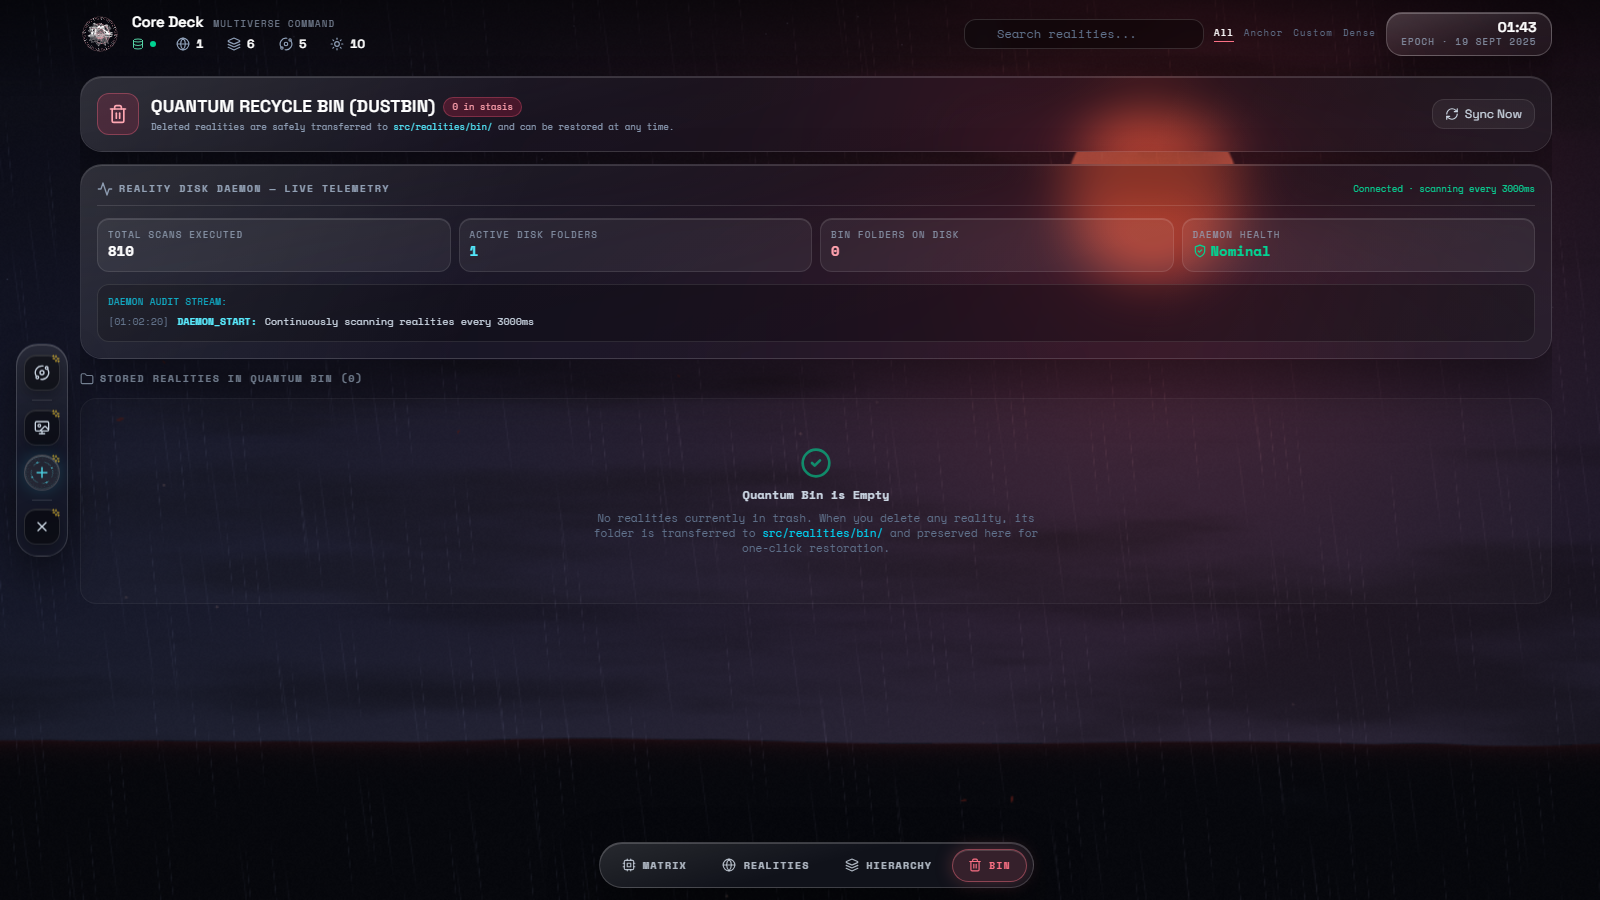
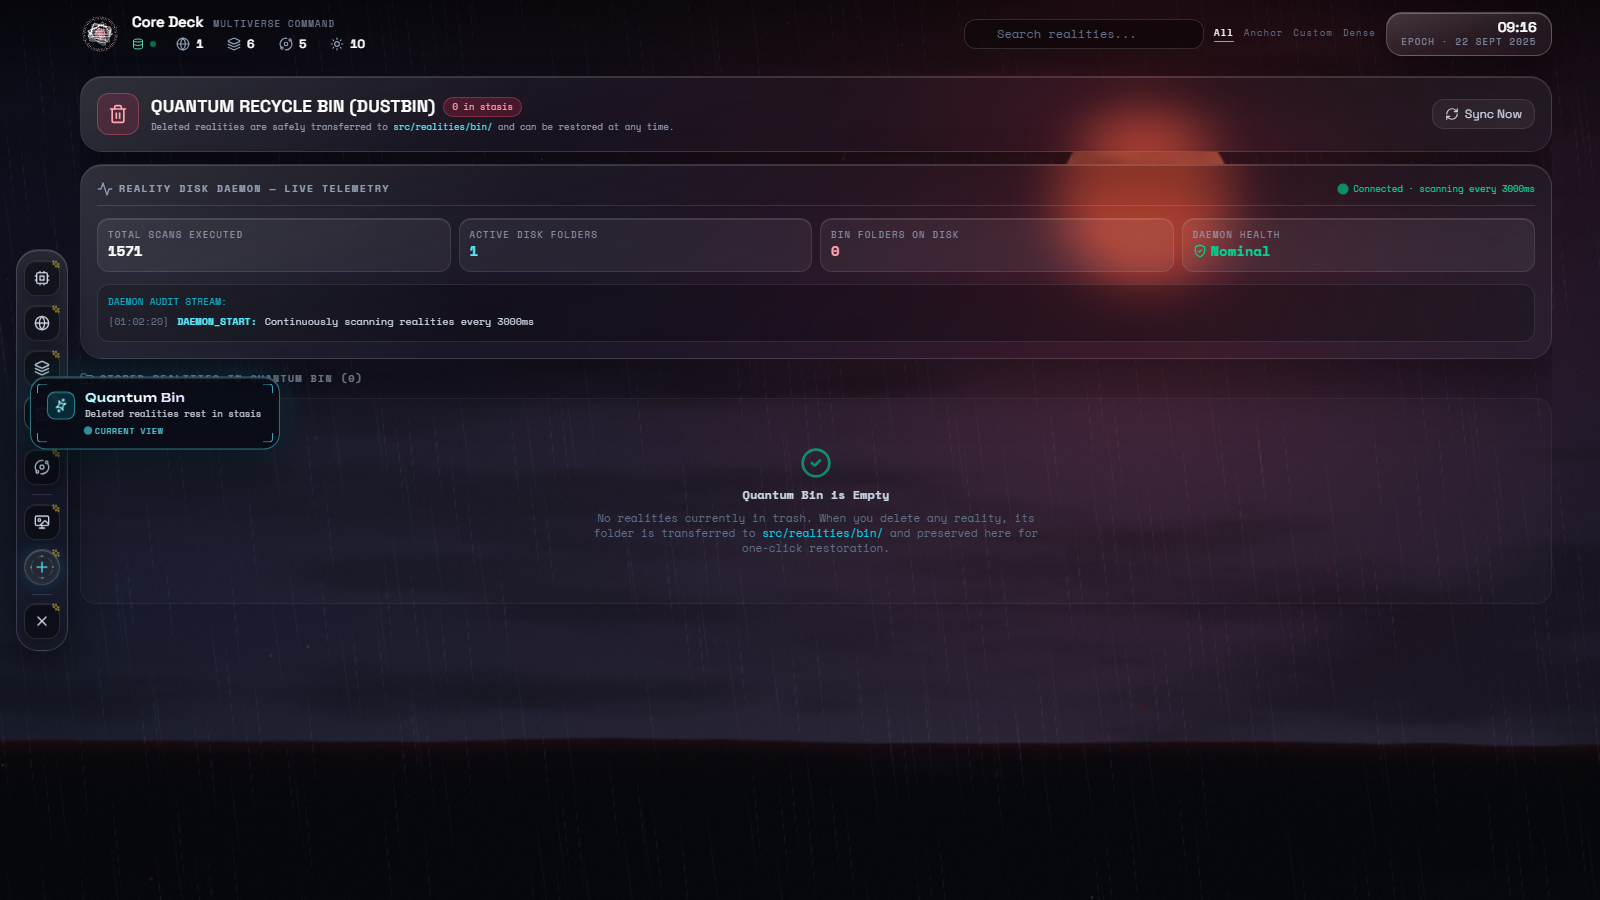
R101.1: THE RAIL ABSORBS THE DOCK — the author's follow-on: the four view tabs leave the bottom pill bar and join the tool seals on the left rail, one unified frost column (view seals on top — symbols only, names in the thought clouds, the active seal burning in the tab accent, the Bin badge riding 

diff --git a/src/ui/console/CoreConsole.tsx b/src/ui/console/CoreConsole.tsx
@@ -39,13 +39,14 @@ interface Props {
 
 type Tab = 'dashboard' | 'realities' | 'hierarchy' | 'bin';
 
-/* THE VIEW DOCK — the bottom pill bar's registry. Full names for the cloud
-   chips, short names for the pill faces. */
-const TABS: Array<{ id: Tab; label: string; pill: string; sub: string; icon: React.ReactNode }> = [
-  { id: 'dashboard', label: 'Command Matrix', pill: 'Matrix', sub: 'Live multiverse telemetry & controls', icon: <Cpu className="w-3.5 h-3.5" /> },
-  { id: 'realities', label: 'Realities Grid', pill: 'Realities', sub: 'One card per parallel reality', icon: <Globe className="w-3.5 h-3.5" /> },
-  { id: 'hierarchy', label: 'Deep Hierarchy', pill: 'Hierarchy', sub: 'The 11-stage cosmological ladder', icon: <Layers className="w-3.5 h-3.5" /> },
-  { id: 'bin', label: 'Quantum Bin', pill: 'Bin', sub: 'Deleted realities rest in stasis', icon: <Trash2 className="w-3.5 h-3.5" /> },
+/* THE RAIL'S VIEW SEALS — the four console views living on the rail with
+   the tools (R101.1): symbols only, full names rise in the thought cloud,
+   the active seal burns in the tab accent, the Bin wears its live badge. */
+const TABS: Array<{ id: Tab; label: string; sub: string; icon: React.ReactNode }> = [
+  { id: 'dashboard', label: 'Command Matrix', sub: 'Live multiverse telemetry & controls', icon: <Cpu className="w-4 h-4" /> },
+  { id: 'realities', label: 'Realities Grid', sub: 'One card per parallel reality', icon: <Globe className="w-4 h-4" /> },
+  { id: 'hierarchy', label: 'Deep Hierarchy', sub: 'The 11-stage cosmological ladder', icon: <Layers className="w-4 h-4" /> },
+  { id: 'bin', label: 'Quantum Bin', sub: 'Deleted realities rest in stasis', icon: <Trash2 className="w-4 h-4" /> },
 ];
 
 /* Quantum Glass motion system — staggered deck entrance + tab transitions.
@@ -1010,6 +1011,32 @@ export const CoreConsole: React.FC<Props> = ({
         className="cc-rail absolute left-4 top-1/2 z-40 -translate-y-1/2"
         onClick={(e) => e.stopPropagation()}
       >
+        {/* THE VIEW SEALS — the four console views, top of the rail (R101.1):
+            the active seal burns in the tab accent, the Bin wears its badge */}
+        {TABS.map((t) => {
+          const binCount = t.id === 'bin' ? (state.binRealities || []).length : 0;
+          return (
+            <span key={t.id} className="relative inline-flex">
+              <ThinkingCloudTooltip
+                onClick={() => setTab(t.id)}
+                icon={t.icon}
+                active={tab === t.id}
+                label={t.label}
+                subtitle={t.sub}
+                hint={tab === t.id ? 'Current view' : 'Switch view'}
+                position="right"
+                size="sm"
+                id={`cc-tab-${t.id}`}
+              />
+              {binCount > 0 && (
+                <span className="absolute -top-1 -right-1 z-10 w-4 h-4 rounded-full bg-rose-500 text-white font-mono text-[9px] font-bold flex items-center justify-center pointer-events-none shadow-[0_0_10px_rgba(251,113,133,0.6)]">
+                  {binCount}
+                </span>
+              )}
+            </span>
+          );
+        })}
+        <span className="cc-rail-sep" aria-hidden="true" />
         {/* TWIN JUMP — always visible even when the twin card rests
             below the fold: one click lands on the Native Simulator Twin */}
         <ThinkingCloudTooltip
@@ -1102,7 +1129,7 @@ export const CoreConsole: React.FC<Props> = ({
 
       {/* THE FLOATING DECK — a slim bar and cards resting directly on the night */}
       <div
-        className="relative h-full flex flex-col pl-20 pr-4 sm:pr-8 lg:pr-12 pt-3 pb-3"
+        className="relative h-full flex flex-col pl-20 pr-4 sm:pr-8 lg:pr-12 pt-3 pb-4"
         onClick={(e) => e.stopPropagation()}
       >
 
@@ -1511,36 +1538,6 @@ export const CoreConsole: React.FC<Props> = ({
           )}
           </AnimatePresence>
         </div>
-
-        {/* THE PILL BAR — the view dock floating at the bottom of the deck
-            (the screenshot's Living-Room dock). The active pill reads the
-            tab accent through [data-active]; the Bin wears its live badge. */}
-        <nav className="shrink-0 self-center pt-3" aria-label="Console views">
-          <div className="cc-pillbar">
-            {TABS.map((t) => {
-              const binCount = t.id === 'bin' ? (state.binRealities || []).length : 0;
-              return (
-                <button
-                  key={t.id}
-                  id={`cc-tab-${t.id}`}
-                  data-active={tab === t.id}
-                  onClick={() => setTab(t.id)}
-                  title={t.sub}
-                  aria-label={t.label}
-                  className="cc-pill"
-                >
-                  {t.icon}
-                  <span className="hidden sm:inline">{t.pill}</span>
-                  {binCount > 0 && (
-                    <span className="absolute -top-1 -right-1 z-10 w-4 h-4 rounded-full bg-rose-500 text-white font-mono text-[9px] font-bold flex items-center justify-center pointer-events-none shadow-[0_0_10px_rgba(251,113,133,0.6)]">
-                      {binCount}
-                    </span>
-                  )}
-                </button>
-              );
-            })}
-          </div>
-        </nav>
       </div>
 
       <CreateRealityModal

diff --git a/src/index.css b/src/index.css
@@ -1556,57 +1556,8 @@ input[type='range'].pw-range::-webkit-slider-thumb {
 
 /* ---- R101 frost layout primitives (all float directly on the night → blur) */
 
-/* THE PILL BAR — the screenshot's bottom dock: one floating glass pill
-   holding the console's view tabs. Active pill reads the tab accent. */
-.cc-pillbar {
-  display: inline-flex;
-  align-items: center;
-  gap: 0.2rem;
-  padding: 0.35rem;
-  border-radius: 9999px;
-  background:
-    linear-gradient(165deg, rgba(255, 255, 255, 0.13), rgba(255, 255, 255, 0.04) 50%),
-    rgba(8, 10, 18, 0.42);
-  -webkit-backdrop-filter: blur(28px) saturate(1.4);
-  backdrop-filter: blur(28px) saturate(1.4);
-  border: 1px solid rgba(255, 255, 255, 0.18);
-  box-shadow: 0 22px 48px rgba(0, 0, 0, 0.5), inset 0 1px 0 rgba(255, 255, 255, 0.18);
-  animation: ccPillIn 0.4s cubic-bezier(0.22, 1, 0.36, 1) both;
-}
-@keyframes ccPillIn {
-  from { opacity: 0; transform: translateY(14px) scale(0.96); }
-  to { opacity: 1; transform: translateY(0) scale(1); }
-}
-.cc-pill {
-  position: relative;
-  display: inline-flex;
-  align-items: center;
-  gap: 0.45rem;
-  padding: 0.5rem 0.95rem;
-  border-radius: 9999px;
-  font-family: var(--font-mono);
-  font-size: 10px;
-  font-weight: 700;
-  letter-spacing: 0.12em;
-  text-transform: uppercase;
-  white-space: nowrap;
-  color: rgba(203, 213, 225, 0.85);
-  border: 1px solid transparent;
-  cursor: pointer;
-  transition: color 0.25s ease, background 0.25s ease, border-color 0.25s ease, box-shadow 0.25s ease;
-}
-.cc-pill:hover {
-  color: #fff;
-  background: rgba(255, 255, 255, 0.08);
-}
-.cc-pill[data-active='true'] {
-  color: rgb(var(--cc));
-  background: rgb(var(--cc) / 0.16);
-  border-color: rgb(var(--cc) / 0.45);
-  box-shadow: 0 0 18px rgb(var(--cc) / 0.25), inset 0 1px 0 rgba(255, 255, 255, 0.15);
-}
-
-/* THE RAIL — the screenshot's left icon column: the deck's tools as a slim
+/* THE RAIL — the deck's ONE column on the left (R101.1: the view seals
+   joined the tool seals here; the R101 bottom dock is gone): a slim
    vertical frost sliver with hairline separators. */
 .cc-rail {
   display: flex;
@@ -1622,7 +1573,13 @@ input[type='range'].pw-range::-webkit-slider-thumb {
   backdrop-filter: blur(26px) saturate(1.35);
   border: 1px solid rgba(255, 255, 255, 0.16);
   box-shadow: 0 20px 44px rgba(0, 0, 0, 0.46), inset 0 1px 0 rgba(255, 255, 255, 0.16);
-  animation: ccPillIn 0.4s cubic-bezier(0.22, 1, 0.36, 1) both;
+  animation: ccRailIn 0.4s cubic-bezier(0.22, 1, 0.36, 1) both;
+}
+@keyframes ccRailIn {
+  /* X-slide only — the rail's vertical centering lives in Tailwind's
+     `translate` property (-translate-y-1/2), which composes with transform */
+  from { opacity: 0; transform: translateX(-14px); }
+  to { opacity: 1; transform: translateX(0); }
 }
 .cc-rail-sep {
   width: 20px;
@@ -1666,10 +1623,9 @@ input[type='range'].pw-range::-webkit-slider-thumb {
   }
   .tilt-btn { transform: none !important; }
   .cc-cloud-rise, .cc-thought-dot { animation: none; }
-  .cc-pillbar, .cc-rail { animation: none; }
+  .cc-rail { animation: none; }
   .cc-vital,
-  .cc-btn-glass,
-  .cc-pill {
+  .cc-btn-glass {
     transition: none;
   }
 }

diff --git a/scripts/probes/round101-frost-visual.ts b/scripts/probes/round101-frost-visual.ts
@@ -60,10 +60,29 @@ async function main() {
     await page.waitForSelector('.cc-root', { timeout: 30_000 });
     await page.waitForTimeout(2_500); /* deck entrance + stagger settle */
 
-    /* every pill-bar view */
+    /* every rail view — wait for THE VIEW'S OWN content to be mounted AND
+       fully entered (opacity 1) before capturing. innerHTML length alone
+       lies: the exiting view's content satisfies it mid-swap. Each view
+       carries a marker string only it renders. */
+    const MARKERS: Record<string, string> = {
+      dashboard: 'Multiverse Radar Scan',
+      realities: 'All Parallel Realities',
+      hierarchy: 'Reality Branches',
+      bin: 'QUANTUM RECYCLE BIN',
+    };
     for (const tab of ['dashboard', 'realities', 'hierarchy', 'bin']) {
       await page.click(`#cc-tab-${tab}`);
-      await page.waitForTimeout(1_400);
+      await page.waitForFunction(
+        (marker: string) => {
+          const sc = document.querySelector('.cc-root .overflow-y-auto');
+          if (!sc?.textContent?.includes(marker)) return false;
+          const el = sc.firstElementChild as HTMLElement | null;
+          return !!el && getComputedStyle(el).opacity === '1';
+        },
+        MARKERS[tab],
+        { timeout: 15_000 },
+      );
+      await page.waitForTimeout(600);
       await page.screenshot({ path: path.join(OUT, `frost-${tab}.png`) });
       console.log(`captured frost-${tab}.png`);
     }

diff --git a/docs/ROUND-101-THE-FROST-DECK-2026-10-03.md b/docs/ROUND-101-THE-FROST-DECK-2026-10-03.md
@@ -105,3 +105,35 @@ Reality modal was already glassmorphic (it predates the smoke era) — untouched
   pausing the shader to a low fps while the deck is open is the designed escape hatch.
 - The single-reality "Worlds per reality" row shows one centered bar (honest for a 1-reality
   multiverse); it composes into a chart as realities multiply.
+
+---
+
+## R101.1 — THE RAIL ABSORBS THE DOCK (same day, the author's follow-on)
+
+The author's verdict on the first frost build, with a crop of the bottom dock: *"change in
+style make all these in left side along with others so it can look great."* The four view
+tabs left the bottom pill bar and joined the tool seals on the left rail — one unified frost
+column: the four view seals on top (symbols only, full names in the thought clouds, the
+active seal burning in the tab accent via the existing `active` prop, the Bin's badge dot
+riding its seal), a separator, then Twin Jump / Backdrop Studio / Forge, a separator, Close.
+
+- The bottom dock is gone; the deck reclaims its bottom edge (`pb-4`). The `.cc-pillbar`/
+  `.cc-pill` CSS died with their last consumer and was deleted (deadCss law — deleted from
+  both sides in the same commit). The rail's entrance keyframe was renamed `ccRailIn` and
+  re-scoped to an X-slide only: the rail centers through Tailwind v4's `translate` property
+  (`-translate-y-1/2`), which composes with `transform` — animating the old translateY form
+  would have doubled the centering.
+- **The probe was caught lying and was fixed.** After the merge, two captures (realities in
+  one run, bin in another) came out visually empty while the dashboard was full — yet an
+  instrumented run proved the DOM always held the content at opacity 1 with zero console
+  errors. The lie: the probe's readiness check (`deck innerHTML.length > 3000`) is satisfied
+  by the EXITING view's content the instant the click lands, so the screenshot raced the
+  `AnimatePresence mode="wait"` swap. The fix makes the wait honest — each view waits for a
+  marker string only IT renders (`Multiverse Radar Scan` / `All Parallel Realities` /
+  `Reality Branches` / `QUANTUM RECYCLE BIN`) AND for the deck's first child to read
+  computed `opacity: 1`, then settles 600 ms. All seven captures re-taken green under the
+  honest wait; the app itself never had the bug.
+- Receipts: typecheck clean; full verify ALL GREEN (21 gauntlets, `SMOKE TIER — wasm`,
+  histL1 0.0725 vs the 0.12 pin, zero console errors, prod smoke green);
+  `audit:arch --check` clean (the pill-class deletion absorbed with no snapshot refresh —
+  classes left both sides together).

diff --git a/PROJECT-BRAIN.md b/PROJECT-BRAIN.md
@@ -390,6 +390,18 @@ Rounds (R-numbers) are the project's epochs; each ends with a round document `do
   re-captured green. Scope lines: HUD + hover cards + Command Palette untouched (HoloCard
   CSS is gauntlet-pinned); ScenicBackdrop untouched (it is what the frost blurs); zero new
   deps, zero engine/physics/state changes.
+  **R101.1 (same day, the author's follow-on):** THE RAIL ABSORBS THE DOCK — the four view
+  tabs left the bottom pill bar and joined the tools on the left rail (one unified frost
+  column: view seals on top with the active seal burning in the tab accent + the Bin badge,
+  separators, then Twin Jump / Studio / Forge / Close); the dock and its `.cc-pillbar`/
+  `.cc-pill` CSS deleted together (deadCss law); the rail's entrance keyframe re-scoped to
+  an X-slide (`ccRailIn`) because the rail centers via Tailwind v4's `translate` property,
+  which composes with `transform`. The probe was caught lying — its `innerHTML > 3000`
+  readiness check was satisfied by the EXITING view mid-swap, producing two visually-empty
+  captures while an instrumented run proved the DOM always held the content at opacity 1 —
+  and now waits for each view's unique marker text plus computed opacity 1 before
+  screenshotting. Receipts: full verify ALL GREEN (histL1 0.0725, zero console errors),
+  audit clean, all seven captures re-taken green under the honest wait.
   `docs/ROUND-101-THE-FROST-DECK-2026-10-03.md`
 - **R96 (this round, on branch `r96-the-tidy-house`):** the author's verdict on
   the tree — "the frontend looks genuinely good, but the backend is total mess"
